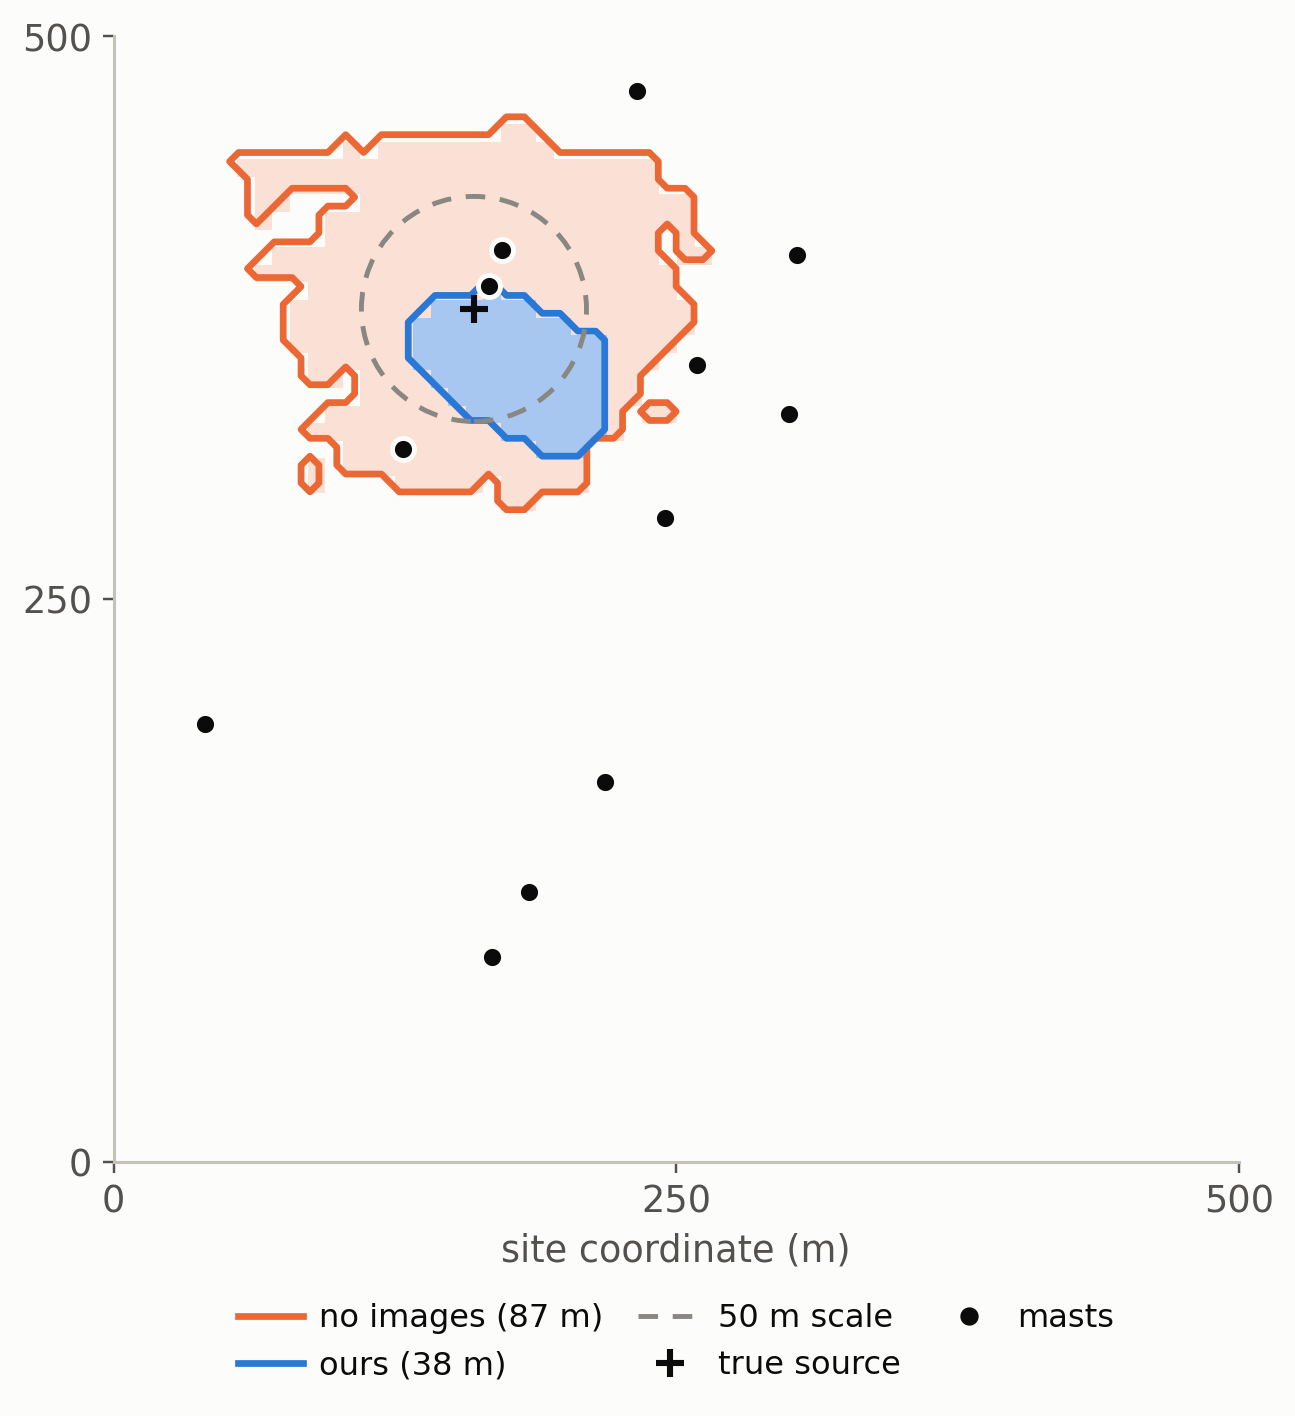
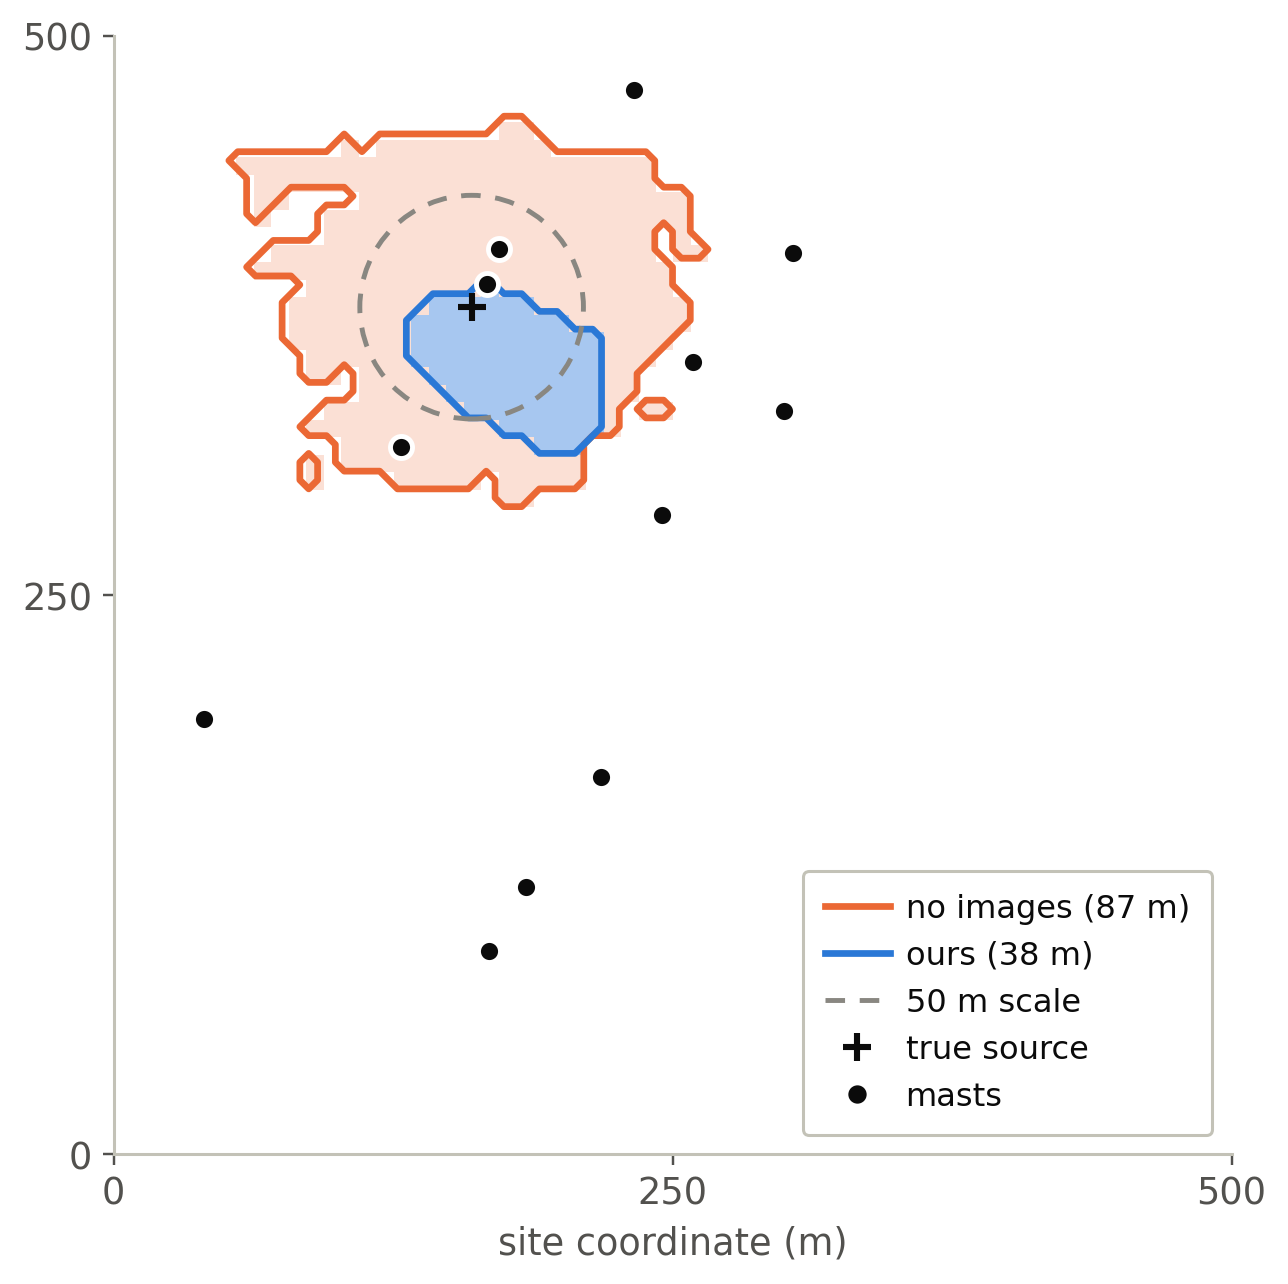
Fig 1: pure white background, boxed key inside bottom-right corner

diff --git a/scripts/paper_data_figs.py b/scripts/paper_data_figs.py
@@ -97,7 +97,9 @@ def fig_example():
     tc = int(d["true_cell"][i])
     tx = ((tc % 64 + 0.5) / 64 * 500, (tc // 64 + 0.5) / 64 * 500)
 
-    fig, ax = plt.subplots(figsize=(6.6, 6.9))
+    fig, ax = plt.subplots(figsize=(6.6, 6.6))
+    fig.patch.set_facecolor("white")
+    ax.set_facecolor("white")
     ext = [0, 500, 0, 500]
     ax.imshow(np.where(mb, 1.0, np.nan), origin="lower", extent=ext,
               cmap=LinearSegmentedColormap.from_list("ob", ["#fbe0d5",
@@ -114,7 +116,7 @@ def fig_example():
     from matplotlib.patches import Circle
     ax.add_patch(Circle(tx, 50, ec=MUTED, fc="none", lw=1.6,
                         ls=(0, (4, 3)), zorder=5))
-    ax.scatter(sx[:, 0], sx[:, 1], s=52, c=INK, edgecolors=SURF,
+    ax.scatter(sx[:, 0], sx[:, 1], s=52, c=INK, edgecolors="white",
                linewidths=1.6, zorder=7)
     ax.plot(*tx, marker="+", color=INK, ms=9, mew=2.0, zorder=8)
     h = [plt.Line2D([], [], color=ORANGE, lw=2.2,
@@ -126,15 +128,19 @@ def fig_example():
          plt.Line2D([], [], color=INK, marker="+", lw=0, ms=9, mew=2,
                     label="true source"),
          plt.Line2D([], [], color=INK, marker="o", lw=0, ms=7,
-                    mec=SURF, label="masts")]
-    ax.legend(handles=h, loc="upper center", bbox_to_anchor=(0.5, -0.10),
-              ncol=3, frameon=False, fontsize=10.5,
-              handletextpad=0.5, columnspacing=1.1)
+                    mec="white", label="masts")]
+    leg = ax.legend(handles=h, loc="lower right", ncol=1, frameon=True,
+                    fontsize=10.5, handletextpad=0.5, borderpad=0.7,
+                    borderaxespad=0.6, framealpha=1.0)
+    leg.get_frame().set_facecolor("white")
+    leg.get_frame().set_edgecolor(BASE)
+    leg.set_zorder(10)
     ax.set_xlim(0, 500); ax.set_ylim(0, 500); ax.set_aspect("equal")
     ax.set_xticks([0, 250, 500]); ax.set_yticks([0, 250, 500])
     ax.set_xlabel("site coordinate (m)")
     despine(ax)
-    save(fig, "fig_data_example")
+    with matplotlib.rc_context({"savefig.facecolor": "white"}):
+        save(fig, "fig_data_example")
 
 
 # ------------------------------ Fig 0b: full-width pipeline (paper size)
